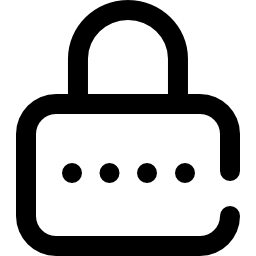
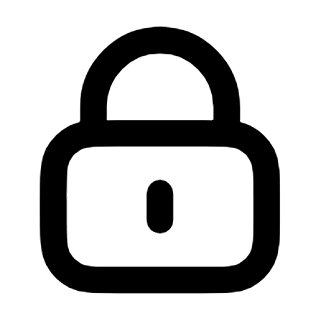
feature: Sign up UI element

diff --git a/FitSwipe.Mobile/Pages/SignUpView.xaml b/FitSwipe.Mobile/Pages/SignUpView.xaml
@@ -6,21 +6,224 @@
     <VerticalStackLayout Padding="10"
                          Spacing="10"
                          VerticalOptions="CenterAndExpand">
-        <Label Text="Email" />
-        <Entry Text="{Binding Email}"
-               Placeholder="Email / SDT" />
 
-        <Label Text="Password" />
-        <Entry Text="{Binding Password}"
-               IsPassword="True"
-               Placeholder="Mật khẩu" />
+        <!--#region ROLE CHOOSING-->
+        <HorizontalStackLayout Spacing="80"
+                               HorizontalOptions="CenterAndExpand">
+            <!--Trainee-->
+            <StackLayout Orientation="Horizontal"
+                         VerticalOptions="Center">
+                <RadioButton Value="trainee"
+                             GroupName="userType" />
+                <Label Text="Người tập"
+                       VerticalOptions="Center" />
+            </StackLayout>
 
-        <Button Text="Sign In"
-                Command="{Binding SignInCommand}"></Button>
-        <Button Text="Need an Account? Sign Up"
-                Command="{Binding NavigateSignUpCommand}"></Button>
+            <!--PT-->
+            <StackLayout Orientation="Horizontal"
+                         VerticalOptions="Center">
+                <RadioButton Value="pt"
+                             GroupName="userType" />
+                <Label Text="PT"
+                       VerticalOptions="Center" />
+            </StackLayout>
+        </HorizontalStackLayout>
+        <!--#endregion-->
 
-        <Label Margin="0, 20, 0, 0"
-               Text="{Binding UserName}"></Label>
+        <!--#region INFORMATION INPUT-->
+        <VerticalStackLayout Spacing="20"
+                             VerticalOptions="Center">
+            <!--Last Name-->
+            <StackLayout Orientation="Horizontal">
+                <Border Padding="5"
+                        StrokeThickness="2"
+                        Stroke="Green">
+                    <Border.StrokeShape>
+                        <RoundRectangle CornerRadius="50" />
+                    </Border.StrokeShape>
+                    <Image Source="profile.png"
+                           WidthRequest="45"
+                           HeightRequest="45" />
+                </Border>
+                <Border Stroke="Green"
+                        StrokeThickness="2"
+                        Padding="7"
+                        HorizontalOptions="FillAndExpand">
+                    <Border.StrokeShape>
+                        <RoundRectangle CornerRadius="8" />
+                    </Border.StrokeShape>
+                    <Entry Text="{Binding lastName}"
+                           Placeholder="Họ" />
+                </Border>
+            </StackLayout>
+
+            <!--First Name-->
+            <StackLayout Orientation="Horizontal">
+                <Border Padding="5"
+                        StrokeThickness="2"
+                        Stroke="Green">
+                    <Border.StrokeShape>
+                        <RoundRectangle CornerRadius="50" />
+                    </Border.StrokeShape>
+                    <Image Source="profile.png"
+                           WidthRequest="45"
+                           HeightRequest="45" />
+                </Border>
+                <Border Stroke="Green"
+                        StrokeThickness="2"
+                        Padding="7"
+                        HorizontalOptions="FillAndExpand">
+                    <Border.StrokeShape>
+                        <RoundRectangle CornerRadius="8" />
+                    </Border.StrokeShape>
+                    <Entry Text="{Binding firstName}"
+                           Placeholder="Tên" />
+                </Border>
+            </StackLayout>
+
+            <!--Email-->
+            <StackLayout Orientation="Horizontal">
+                <Border Padding="5"
+                        StrokeThickness="2"
+                        Stroke="Green">
+                    <Border.StrokeShape>
+                        <RoundRectangle CornerRadius="50" />
+                    </Border.StrokeShape>
+                    <Image Source="email.png"
+                           WidthRequest="45"
+                           HeightRequest="45" />
+                </Border>
+                <Border Stroke="Green"
+                        StrokeThickness="2"
+                        Padding="7"
+                        HorizontalOptions="FillAndExpand">
+                    <Border.StrokeShape>
+                        <RoundRectangle CornerRadius="8" />
+                    </Border.StrokeShape>
+                    <Entry Text="{Binding email}"
+                           Placeholder="Email" />
+                </Border>
+            </StackLayout>
+
+            <!--Phone Number-->
+            <StackLayout Orientation="Horizontal">
+                <Border Padding="5"
+                        StrokeThickness="2"
+                        Stroke="Green">
+                    <Border.StrokeShape>
+                        <RoundRectangle CornerRadius="50" />
+                    </Border.StrokeShape>
+                    <Image Source="phone.png"
+                           WidthRequest="45"
+                           HeightRequest="45" />
+                </Border>
+                <Border Stroke="Green"
+                        StrokeThickness="2"
+                        Padding="7"
+                        HorizontalOptions="FillAndExpand">
+                    <Border.StrokeShape>
+                        <RoundRectangle CornerRadius="8" />
+                    </Border.StrokeShape>
+                    <Entry Text="{Binding phone}"
+                           Placeholder="SĐT" />
+                </Border>
+            </StackLayout>
+
+            <!--Password-->
+            <StackLayout Orientation="Horizontal">
+                <Border Padding="5"
+                        StrokeThickness="2"
+                        Stroke="Green">
+                    <Border.StrokeShape>
+                        <RoundRectangle CornerRadius="50" />
+                    </Border.StrokeShape>
+                    <Image Source="password.png"
+                           WidthRequest="45"
+                           HeightRequest="45" />
+                </Border>
+                <Border Stroke="Green"
+                        StrokeThickness="2"
+                        Padding="7"
+                        HorizontalOptions="FillAndExpand">
+                    <Border.StrokeShape>
+                        <RoundRectangle CornerRadius="8" />
+                    </Border.StrokeShape>
+                    <Entry Text="{Binding Password}"
+                           IsPassword="True"
+                           Placeholder="Mật khẩu" />
+                </Border>
+            </StackLayout>
+
+            <!--Confirm Password-->
+            <StackLayout Orientation="Horizontal">
+                <Border Padding="5"
+                        StrokeThickness="2"
+                        Stroke="Green">
+                    <Border.StrokeShape>
+                        <RoundRectangle CornerRadius="50" />
+                    </Border.StrokeShape>
+                    <Image Source="password.png"
+                           WidthRequest="45"
+                           HeightRequest="45" />
+                </Border>
+                <Border Stroke="Green"
+                        StrokeThickness="2"
+                        Padding="7"
+                        HorizontalOptions="FillAndExpand">
+                    <Border.StrokeShape>
+                        <RoundRectangle CornerRadius="8" />
+                    </Border.StrokeShape>
+                    <Entry Text="{Binding confirmPassword}"
+                           IsPassword="True"
+                           Placeholder="Nhập lại mật khẩu" />
+                </Border>
+            </StackLayout>
+        </VerticalStackLayout>
+        <!--#endregion-->
+
+        <!--#region TERMS AND SERVICES-->
+        <StackLayout Orientation="Horizontal">
+            <CheckBox Color="Green" />
+            <Label MaximumWidthRequest="350"
+                   VerticalOptions="End">
+                <Label.FormattedText>
+                    <FormattedString>
+                        <Span Text="Bằng việc đăng ký, tôi đã đọc " />
+                        <Span Text="Điều khoản dịch vụ "
+                              FontAttributes="Bold"
+                              TextDecorations="Underline" />
+                        <Span Text="và " />
+                        <Span Text="Chính sách bảo mật."
+                              FontAttributes="Bold"
+                              TextDecorations="Underline" />
+                    </FormattedString>
+                </Label.FormattedText>
+            </Label>
+        </StackLayout>
+
+        <Button Text="Đăng ký"
+                BorderWidth="1"
+                BorderColor="Green"
+                WidthRequest="150"
+                TextColor="Black"
+                BackgroundColor="White" />
+
+        <!--#region SIGNIN NAVIGATION-->
+        <HorizontalStackLayout HorizontalOptions="Center"
+                               Spacing="20"
+                               Margin="0, 20, 0, 0">
+            <Label Text="Đã có tài khoản?"
+                   FontAttributes="Bold,Italic"
+                   VerticalTextAlignment="Center" />
+            <Button Text="Đăng nhập"
+                    BorderWidth="1"
+                    BorderColor="Green"
+                    WidthRequest="150"
+                    TextColor="Black"
+                    BackgroundColor="White" />
+        </HorizontalStackLayout>
+
+        <!--<Label Margin="0, 20, 0, 0"
+               Text="{Binding UserName}"></Label>-->
     </VerticalStackLayout>
 </ContentPage>

diff --git a/FitSwipe.Mobile/Pages/SignInView.xaml b/FitSwipe.Mobile/Pages/SignInView.xaml
@@ -8,6 +8,8 @@
                          Spacing="10"
                          VerticalOptions="Center">
 
+        <Image Source="Background/signin_background.png" />
+
         <!--#region INFORMATION SECTION-->
         <!--EMAIL/USERNAME-->
         <VerticalStackLayout Spacing="20">
@@ -42,13 +44,13 @@
                     <Border.StrokeShape>
                         <RoundRectangle CornerRadius="50" />
                     </Border.StrokeShape>
-                    <Image Source="passwod.png"
+                    <Image Source="password.png"
                            WidthRequest="45"
                            HeightRequest="45" />
                 </Border>
                 <Border Stroke="Green"
                         StrokeThickness="2"
-                        Padding="5"
+                        Padding="7"
                         HorizontalOptions="FillAndExpand">
                     <Border.StrokeShape>
                         <RoundRectangle CornerRadius="8" />
@@ -100,21 +102,21 @@
                 <!--Facebook-->
                 <Frame HasShadow="True"
                        CornerRadius="50"
-                       Padding="10"
+                       Padding="5"
                        BorderColor="Green">
                     <ImageButton Source="facebook.png"
-                                 WidthRequest="20"
-                                 HeightRequest="20" />
+                                 WidthRequest="40"
+                                 HeightRequest="40" />
                 </Frame>
 
                 <!--Google-->
                 <Frame HasShadow="True"
                        CornerRadius="50"
-                       Padding="10"
+                       Padding="5"
                        BorderColor="Green">
                     <ImageButton Source="google.png"
-                                 WidthRequest="20"
-                                 HeightRequest="20" />
+                                 WidthRequest="40"
+                                 HeightRequest="40" />
                 </Frame>
             </StackLayout>
         </VerticalStackLayout>
@@ -122,10 +124,12 @@
 
         <!--#region NOT HAVE ACCOUNT YET-->
         <HorizontalStackLayout HorizontalOptions="Center"
-                               Spacing="50">
+                               Spacing="40"
+                               Margin="0, 20, 0, 0">
             <Label Text="Chưa có tài khoản?"
                    FontAttributes="Italic,Bold"
-                   VerticalOptions="Center" />
+                   VerticalOptions="Center"
+                   MaximumHeightRequest="150" />
 
             <Button Text="Đăng ký"
                     BorderWidth="1"

diff --git a/FitSwipe.Mobile/AppShell.xaml b/FitSwipe.Mobile/AppShell.xaml
@@ -45,6 +45,9 @@
         </Tab>
 
     </TabBar>-->
+    <ShellContent Title="Sign Up"
+                  ContentTemplate="{DataTemplate pages:SignUpView}"
+                  Route="SignUp" />
     <ShellContent Title="Sign In"
                   ContentTemplate="{DataTemplate pages:SignInView}"
                   Route="SignIn" />
@@ -60,9 +63,6 @@
                   Route="TraineeProfilePage" />
     <ShellContent ContentTemplate="{DataTemplate homePages:SwipeMatchView}"
                   Route="SwipeMatch" />
-    <ShellContent Title="Sign Up"
-                  ContentTemplate="{DataTemplate pages:SignUpView}"
-                  Route="SignUp" />
 
 
 </Shell>
